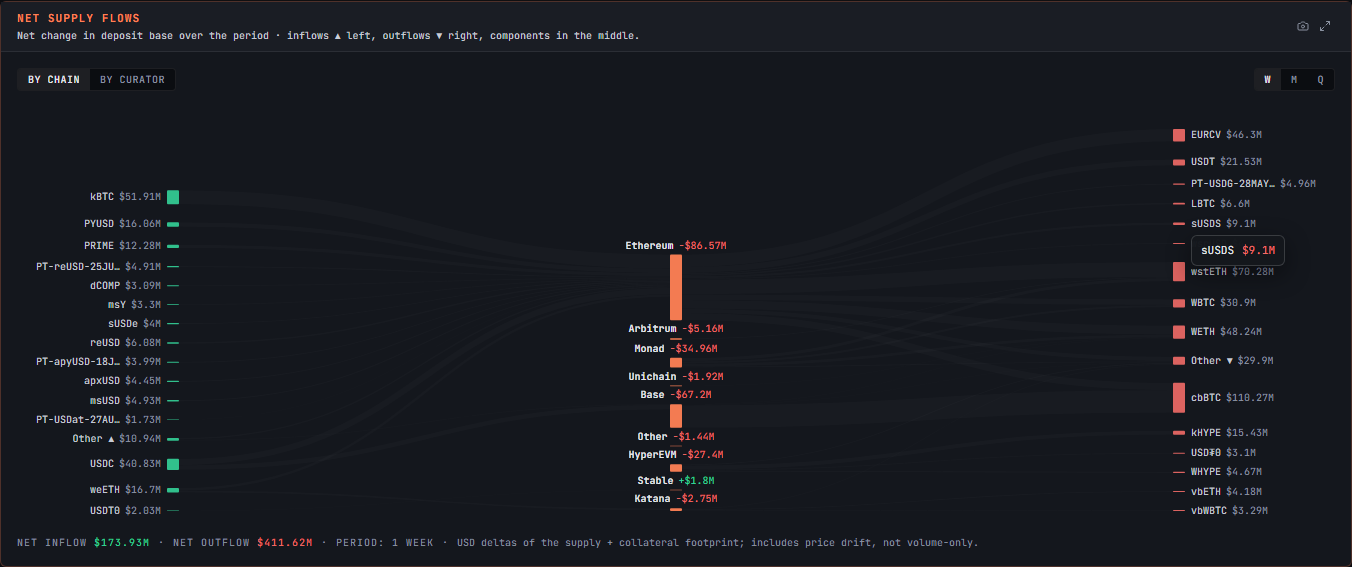
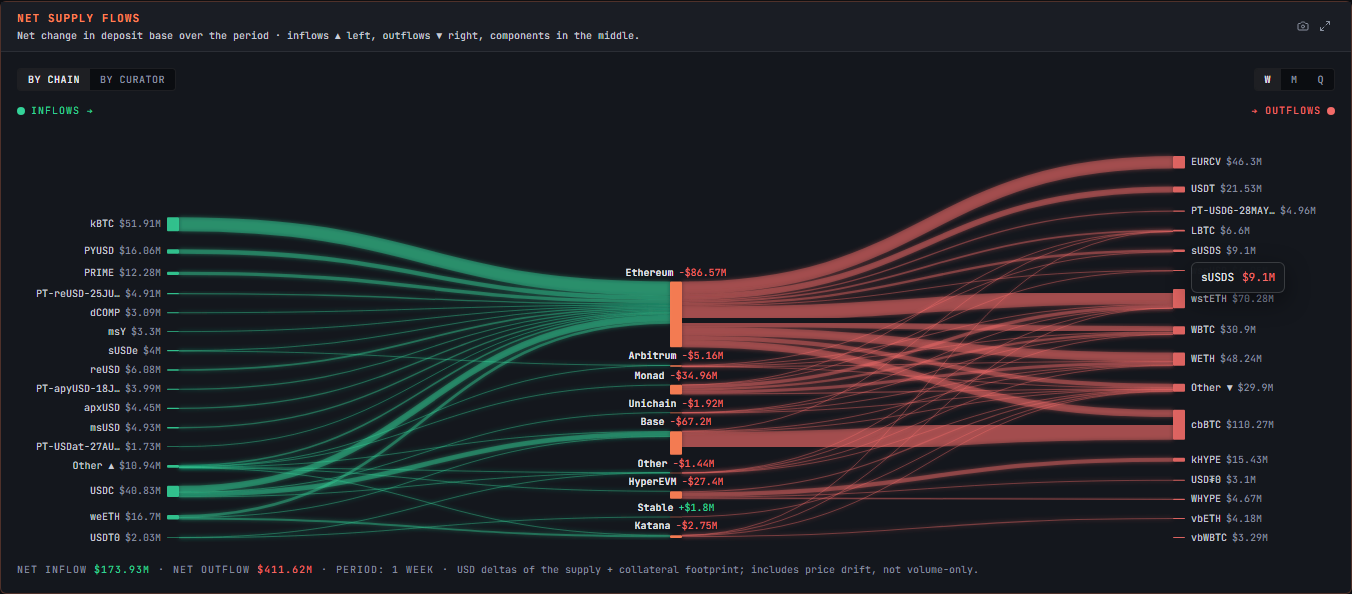
Sankey: colored glowing ribbons + working ribbon/node hover tooltips
The faint white ribbons didn't respond to hover because the only hover
targets were the thin node bars — users point at the ribbons. Rebuilt the
link rendering to match the Lending Terminal reference:

  * Custom SankeyLink: each ribbon colored by side — green for inflows
    (asset → component), red for outflows (component → asset) — drawn at
    0.4 opacity with a soft feGaussianBlur glow filter, brightening to 0.75
    on hover.
  * Ribbon hover now fires the self-managed tooltip showing "FROM → TO $X"
    (e.g. "USDT0 → Other $28.07K"); node hover still shows "name $X".
    Resolves payload.source/target whether Recharts hands back indices or
    node objects.
  * Added an INFLOWS → / → OUTFLOWS colored legend above the chart.
  * Dropped the dead Recharts <Tooltip> (never fired with custom node+link).

Also confirmed the donut legend is NOT a code bug: on the live dark-mode
page the legend text computes to rgb(229,231,235) on #0B0D11 — fully
visible. The user's persistent "invisible legend" is a stale client bundle
(likely a service worker cached on localhost from another project).

Verified: branding/verify-sankey-glow.png (colored ribbons),
hover assertions for both link + node.

diff --git a/apps/web/components/overview/net-supply-flows-sankey.tsx b/apps/web/components/overview/net-supply-flows-sankey.tsx
@@ -1,11 +1,11 @@
 'use client';
 
 import { useRef, useState } from 'react';
-import { Layer, Rectangle, ResponsiveContainer, Sankey, Tooltip } from 'recharts';
+import { Layer, Rectangle, ResponsiveContainer, Sankey } from 'recharts';
 
 import { tokens } from '@/lib/brand/tokens';
 import { fmtUsd } from '@/lib/format';
-import type { NetSupplyFlows } from '@/lib/queries/overview';
+import type { NetSupplyFlows, SankeyNode as SankeyNodeData } from '@/lib/queries/overview';
 
 interface Props {
   /** Pre-fetched flows keyed by `${view}:${period}` so toggles are instant. */
@@ -16,7 +16,11 @@ type View = 'chain' | 'curator';
 type Period = 'W' | 'M' | 'Q';
 
 interface NodeHoverInfo { name: string; kind: string; usd: number }
+interface LinkHoverInfo { from: string; to: string; usd: number; color: string }
 interface Tip { left: number; top: number; title: string; value: string; valColor: string }
+
+const INFLOW_COLOR = '#34D399';   // green
+const OUTFLOW_COLOR = '#F26B68';  // red
 
 const nodeColor = (kind: string): string => {
   if (kind === 'inflow') return tokens.colors.chart[1];      // green
@@ -33,14 +37,23 @@ export function NetSupplyFlowsSankey({ byKey }: Props) {
 
   const hasData = flows && flows.nodes.length > 0 && flows.links.length > 0;
 
-  // Self-managed node tooltip: Recharts' Sankey tooltip only fires for the
-  // default node shape, and our custom node replaces it — so we wire hover
-  // ourselves. Links still use the Recharts <Tooltip> below.
+  // Self-managed tooltip: Recharts' built-in Sankey tooltip doesn't fire once
+  // we supply custom node + link renderers, so we wire hover ourselves for
+  // BOTH the nodes (bars) and the links (ribbons — what users actually point
+  // at). Positions are computed relative to the wrapper.
+  const showTip = (title: string, value: string, valColor: string, e: React.MouseEvent) => {
+    const rect = wrapRef.current?.getBoundingClientRect();
+    setTip({
+      left: e.clientX - (rect?.left ?? 0),
+      top: e.clientY - (rect?.top ?? 0),
+      title,
+      value,
+      valColor,
+    });
+  };
+
   const onNodeHover = (info: NodeHoverInfo | null, e?: React.MouseEvent) => {
     if (!info || !e) { setTip(null); return; }
-    const rect = wrapRef.current?.getBoundingClientRect();
-    const left = e.clientX - (rect?.left ?? 0);
-    const top = e.clientY - (rect?.top ?? 0);
     const signed =
       info.kind === 'component'
         ? (info.usd >= 0 ? '+' : '−') + fmtUsd(Math.abs(info.usd), { compact: true })
@@ -49,7 +62,12 @@ export function NetSupplyFlowsSankey({ byKey }: Props) {
       info.kind === 'component'
         ? info.usd >= 0 ? tokens.colors.positive : tokens.colors.negative
         : info.kind === 'inflow' ? tokens.colors.positive : tokens.colors.negative;
-    setTip({ left, top, title: info.name, value: signed, valColor });
+    showTip(info.name, signed, valColor, e);
+  };
+
+  const onLinkHover = (info: LinkHoverInfo | null, e?: React.MouseEvent) => {
+    if (!info || !e) { setTip(null); return; }
+    showTip(`${info.from} → ${info.to}`, fmtUsd(info.usd, { compact: true }), info.color, e);
   };
 
   return (
@@ -67,6 +85,18 @@ export function NetSupplyFlowsSankey({ byKey }: Props) {
         />
       </div>
 
+      {/* Inflow / outflow legend (matches the reference) */}
+      <div className="flex items-center justify-between text-tiny uppercase tracking-header-medium">
+        <span className="inline-flex items-center gap-1.5" style={{ color: INFLOW_COLOR }}>
+          <span className="inline-block size-2 rounded-sm" style={{ background: INFLOW_COLOR }} />
+          Inflows →
+        </span>
+        <span className="inline-flex items-center gap-1.5" style={{ color: OUTFLOW_COLOR }}>
+          → Outflows
+          <span className="inline-block size-2 rounded-sm" style={{ background: OUTFLOW_COLOR }} />
+        </span>
+      </div>
+
       {hasData ? (
         <div ref={wrapRef} className="relative">
           <ResponsiveContainer width="100%" height={420}>
@@ -76,21 +106,19 @@ export function NetSupplyFlowsSankey({ byKey }: Props) {
               nodeWidth={12}
               linkCurvature={0.5}
               iterations={64}
-              link={{ stroke: 'hsla(0,0%,100%,0.10)' }}
+              link={<SankeyLink onHover={onLinkHover} nodes={flows.nodes} />}
               node={<SankeyNode onHover={onNodeHover} />}
               margin={{ top: 26, right: 150, bottom: 12, left: 150 }}
             >
-              <Tooltip
-                formatter={(v: unknown) => [fmtUsd(typeof v === 'number' ? v : 0, { compact: true }), 'Flow']}
-                contentStyle={{
-                  background: tokens.colors.tooltipBg,
-                  border: `1px solid ${tokens.colors.borderBright}`,
-                  borderRadius: tokens.radii.md,
-                  fontFamily: tokens.typography.fontFamilyMono,
-                  fontSize: 11,
-                  color: tokens.colors.textPrimary,
-                }}
-              />
+              <defs>
+                <filter id="sankeyGlow" x="-20%" y="-20%" width="140%" height="140%">
+                  <feGaussianBlur stdDeviation="2.2" result="blur" />
+                  <feMerge>
+                    <feMergeNode in="blur" />
+                    <feMergeNode in="SourceGraphic" />
+                  </feMerge>
+                </filter>
+              </defs>
             </Sankey>
           </ResponsiveContainer>
           {tip && (
@@ -132,6 +160,60 @@ export function NetSupplyFlowsSankey({ byKey }: Props) {
         </span>
       </div>
     </div>
+  );
+}
+
+// Custom link (ribbon) renderer: colored by side (green inflow, red outflow),
+// semi-opaque with a soft glow, and hoverable — the ribbons are the big
+// target users actually point at, so this is where the tooltip must fire.
+interface LinkProps {
+  sourceX?: number; targetX?: number; sourceY?: number; targetY?: number;
+  sourceControlX?: number; targetControlX?: number;
+  linkWidth?: number; index?: number;
+  payload?: { source: number | SankeyNodeData; target: number | SankeyNodeData; value: number };
+  nodes?: SankeyNodeData[];
+  onHover?: (info: LinkHoverInfo | null, e?: React.MouseEvent) => void;
+}
+function SankeyLink(props: LinkProps) {
+  const {
+    sourceX = 0, targetX = 0, sourceY = 0, targetY = 0,
+    sourceControlX = 0, targetControlX = 0, linkWidth = 0,
+    payload, nodes = [], onHover,
+  } = props;
+  if (!payload) return null;
+
+  // Recharts may hand back source/target as indices or as node objects —
+  // resolve to the node either way.
+  const resolve = (v: number | SankeyNodeData | undefined): SankeyNodeData | undefined =>
+    typeof v === 'number' ? nodes[v] : v;
+  const src = resolve(payload.source);
+  const tgt = resolve(payload.target);
+
+  const color =
+    src?.kind === 'inflow' ? INFLOW_COLOR
+    : tgt?.kind === 'outflow' ? OUTFLOW_COLOR
+    : tokens.colors.accent;
+
+  const d =
+    `M${sourceX},${sourceY}` +
+    `C${sourceControlX},${sourceY} ${targetControlX},${targetY} ${targetX},${targetY}`;
+
+  const info: LinkHoverInfo = {
+    from: src?.name ?? '', to: tgt?.name ?? '', usd: payload.value ?? 0, color,
+  };
+
+  return (
+    <path
+      d={d}
+      fill="none"
+      stroke={color}
+      strokeWidth={Math.max(1, linkWidth)}
+      strokeOpacity={0.4}
+      filter="url(#sankeyGlow)"
+      style={{ cursor: 'pointer' }}
+      onMouseMove={(e) => { e.currentTarget.setAttribute('stroke-opacity', '0.75'); onHover?.(info, e); }}
+      onMouseLeave={(e) => { e.currentTarget.setAttribute('stroke-opacity', '0.4'); onHover?.(null); }}
+    />
   );
 }
 

diff --git a/scripts/hover-sankey.ts b/scripts/hover-sankey.ts
@@ -1,5 +1,4 @@
-// Deterministically confirm the Sankey node tooltip fires: hover a node's
-// transparent hit-rect and assert the tooltip div appears with text.
+// Confirm the Sankey link (ribbon) tooltip fires + capture the glow.
 import { dirname, join } from 'node:path';
 import { fileURLToPath } from 'node:url';
 import { chromium } from 'playwright';
@@ -18,25 +17,22 @@ async function main() {
   await card.scrollIntoViewIfNeeded();
   await page.waitForTimeout(600);
 
-  // The widened transparent hit-rects we added carry cursor:pointer.
-  const hitRects = card.locator('svg rect[fill="transparent"]');
-  const n = await hitRects.count();
-  console.log(`hit-rects found: ${n}`);
-  if (n === 0) { console.log('FAIL: no hit rects'); await b.close(); return; }
+  // Link ribbons are the thick stroked <path> elements with cursor:pointer.
+  const links = card.locator('svg path[stroke-width]');
+  const ln = await links.count();
+  // Hover a beefy ribbon near the middle of the list.
+  let linkTip: string | null = null;
+  for (const idx of [Math.floor(ln / 2), 3, 10, 0]) {
+    if (idx >= ln) continue;
+    await links.nth(idx).hover({ force: true });
+    await page.waitForTimeout(300);
+    linkTip = await card.locator('div.absolute.z-20').first().textContent().catch(() => null);
+    if (linkTip && linkTip.includes('→')) break;
+  }
+  console.log(`link paths: ${ln} · link tooltip: ${linkTip ?? '(none)'}`);
 
-  // Hover a middle-ish node (components sit between assets).
-  await hitRects.nth(Math.floor(n / 2)).hover({ force: true });
-  await page.waitForTimeout(400);
-
-  // Tooltip is an absolutely-positioned div with a $ value. Look for it.
-  const tipText = await card
-    .locator('div.absolute.z-20')
-    .first()
-    .textContent()
-    .catch(() => null);
-  console.log(`tooltip text: ${tipText ?? '(none)'}`);
-  await card.screenshot({ path: join(BRAND, 'verify-sankey-hover.png') });
-  console.log('→ branding/verify-sankey-hover.png');
+  await card.screenshot({ path: join(BRAND, 'verify-sankey-glow.png') });
+  console.log('→ branding/verify-sankey-glow.png');
   await b.close();
 }
 main().catch((e) => { console.error(e); process.exit(1); });

diff --git a/scripts/diag-legend.ts b/scripts/diag-legend.ts
@@ -1,0 +1,27 @@
+// Diagnostic: read the live computed color of the donut legend text + the
+// active theme, so we can tell if the legend is genuinely invisible in dark
+// mode or if it's a client-cache issue.
+import { chromium } from 'playwright';
+
+const PORT = process.env.PORT ?? '3000';
+
+async function main() {
+  const b = await chromium.launch({ headless: true });
+  const page = await b.newPage({ viewport: { width: 1500, height: 1000 } });
+  await page.goto(`http://localhost:${PORT}/`, { waitUntil: 'networkidle', timeout: 60_000 });
+  await page.waitForTimeout(2500);
+  const info = await page.evaluate(() => {
+    const theme = document.documentElement.getAttribute('data-theme');
+    const bg = getComputedStyle(document.documentElement).getPropertyValue('--background').trim();
+    const tp = getComputedStyle(document.documentElement).getPropertyValue('--text-primary').trim();
+    // Find a donut legend symbol cell — look for a table row containing 'USR' or 'USDC'.
+    const cells = Array.from(document.querySelectorAll('td span'));
+    const target = cells.find((el) => /^(USR|USDC|WETH|CBBTC)$/i.test((el.textContent ?? '').trim()));
+    const color = target ? getComputedStyle(target as Element).color : '(legend cell not found)';
+    const sample = target?.textContent ?? null;
+    return { theme, bg, tp, legendSample: sample, legendColor: color };
+  });
+  console.log(JSON.stringify(info, null, 2));
+  await b.close();
+}
+main().catch((e) => { console.error(e); process.exit(1); });
